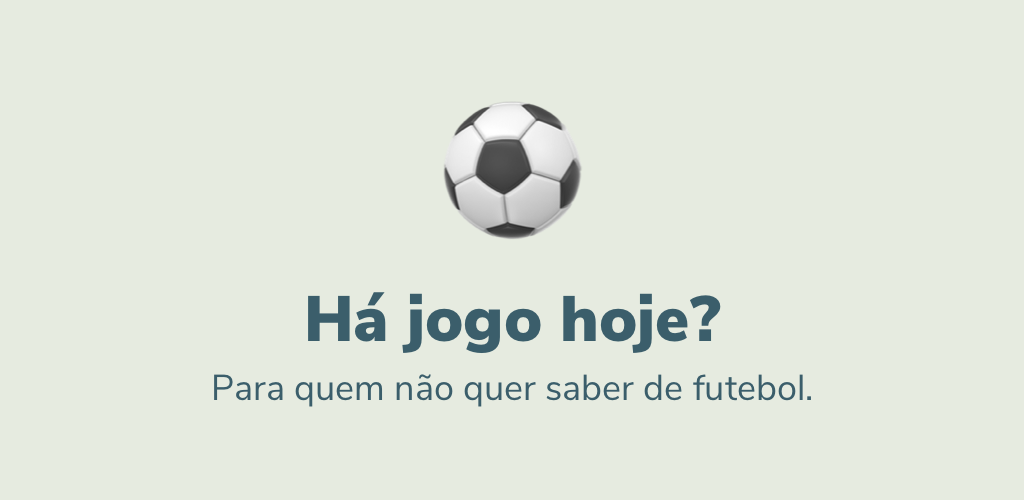
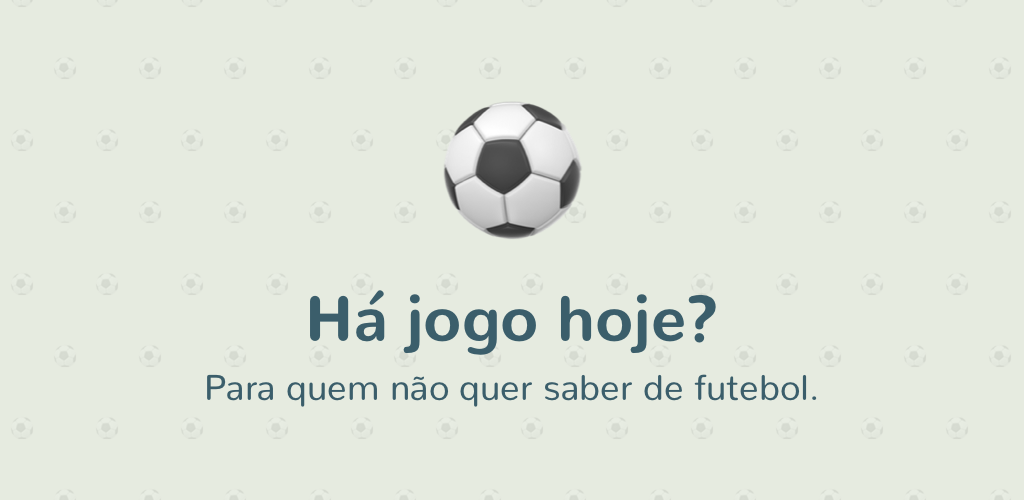
Update font to Nunito

diff --git a/assets/css/main.css b/assets/css/main.css
@@ -4,7 +4,7 @@
 /* App */
 
 .app {
-    font-family: "Nunito Sans", sans-serif;
+    font-family: "Nunito", sans-serif;
     background-color: var(--color-white);
     color: var(--color-blue);
     font-size: 24px;
@@ -146,7 +146,7 @@
 
 .app__heading {
     margin-bottom: 1rem;
-    font-weight: 400;
+    font-weight: 700;
     font-size: 2rem;
     text-align: center;
 }

diff --git a/assets/css/imports/fonts.css b/assets/css/imports/fonts.css
@@ -1,1 +1,1 @@
-@import url('https://fonts.googleapis.com/css?family=Nunito+Sans:400,900&display=swap');
+@import url("https://fonts.googleapis.com/css?family=Nunito:400,700&display=swap");
